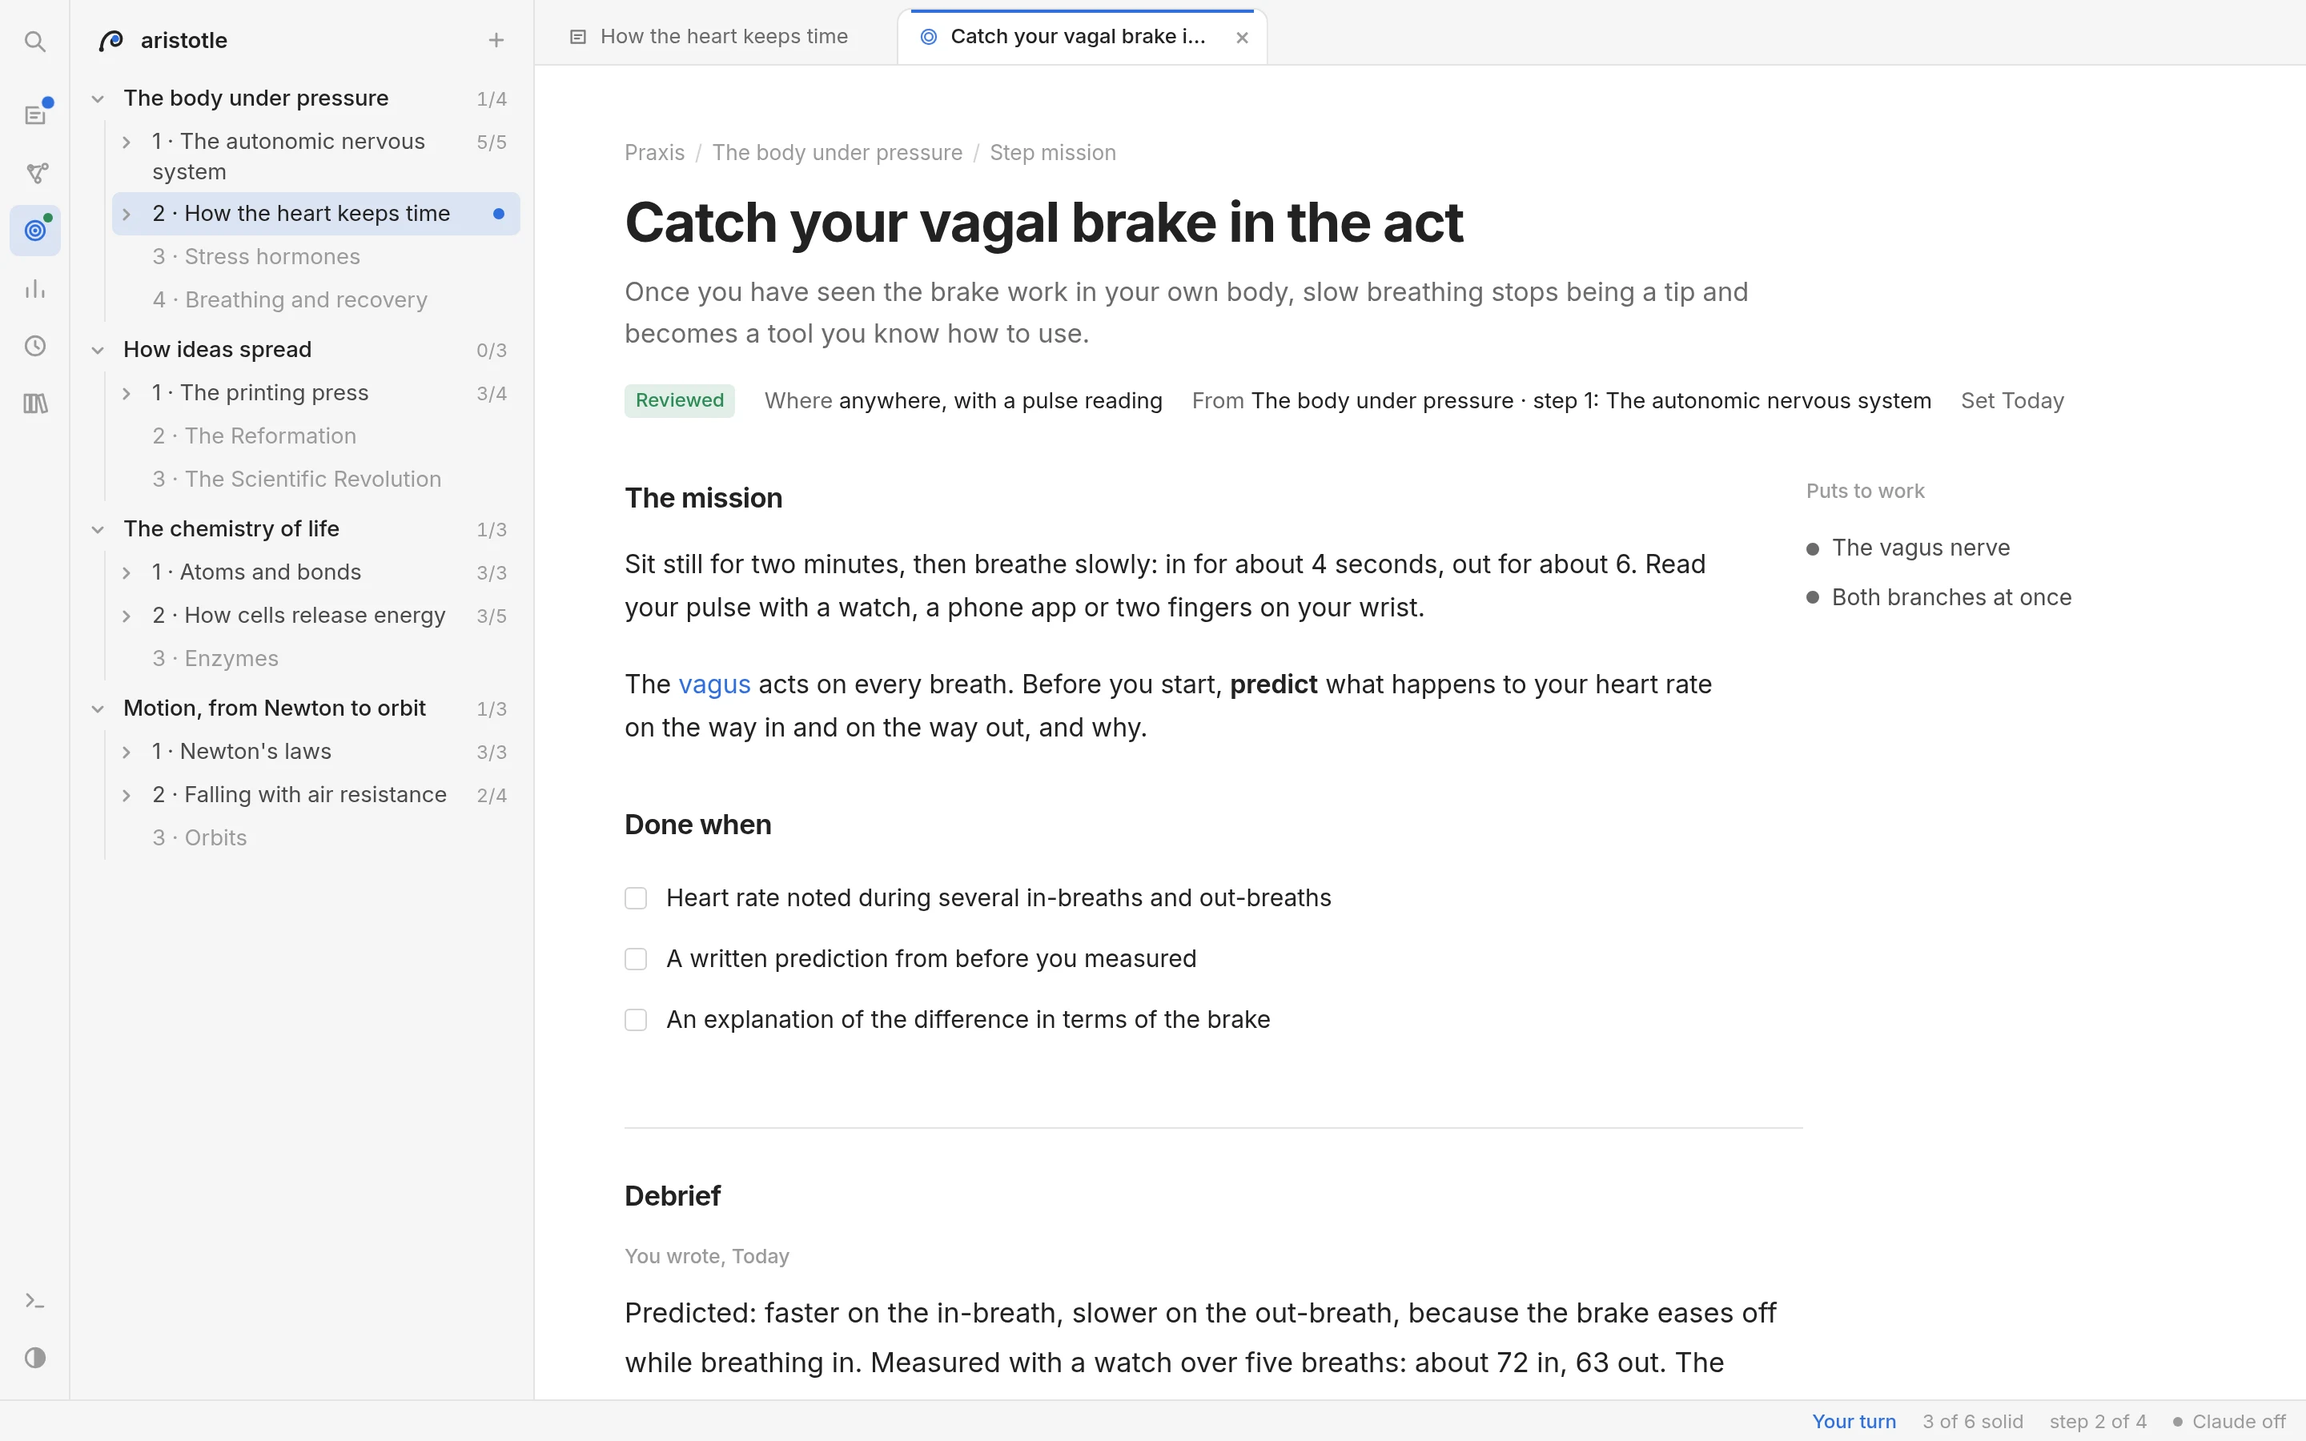
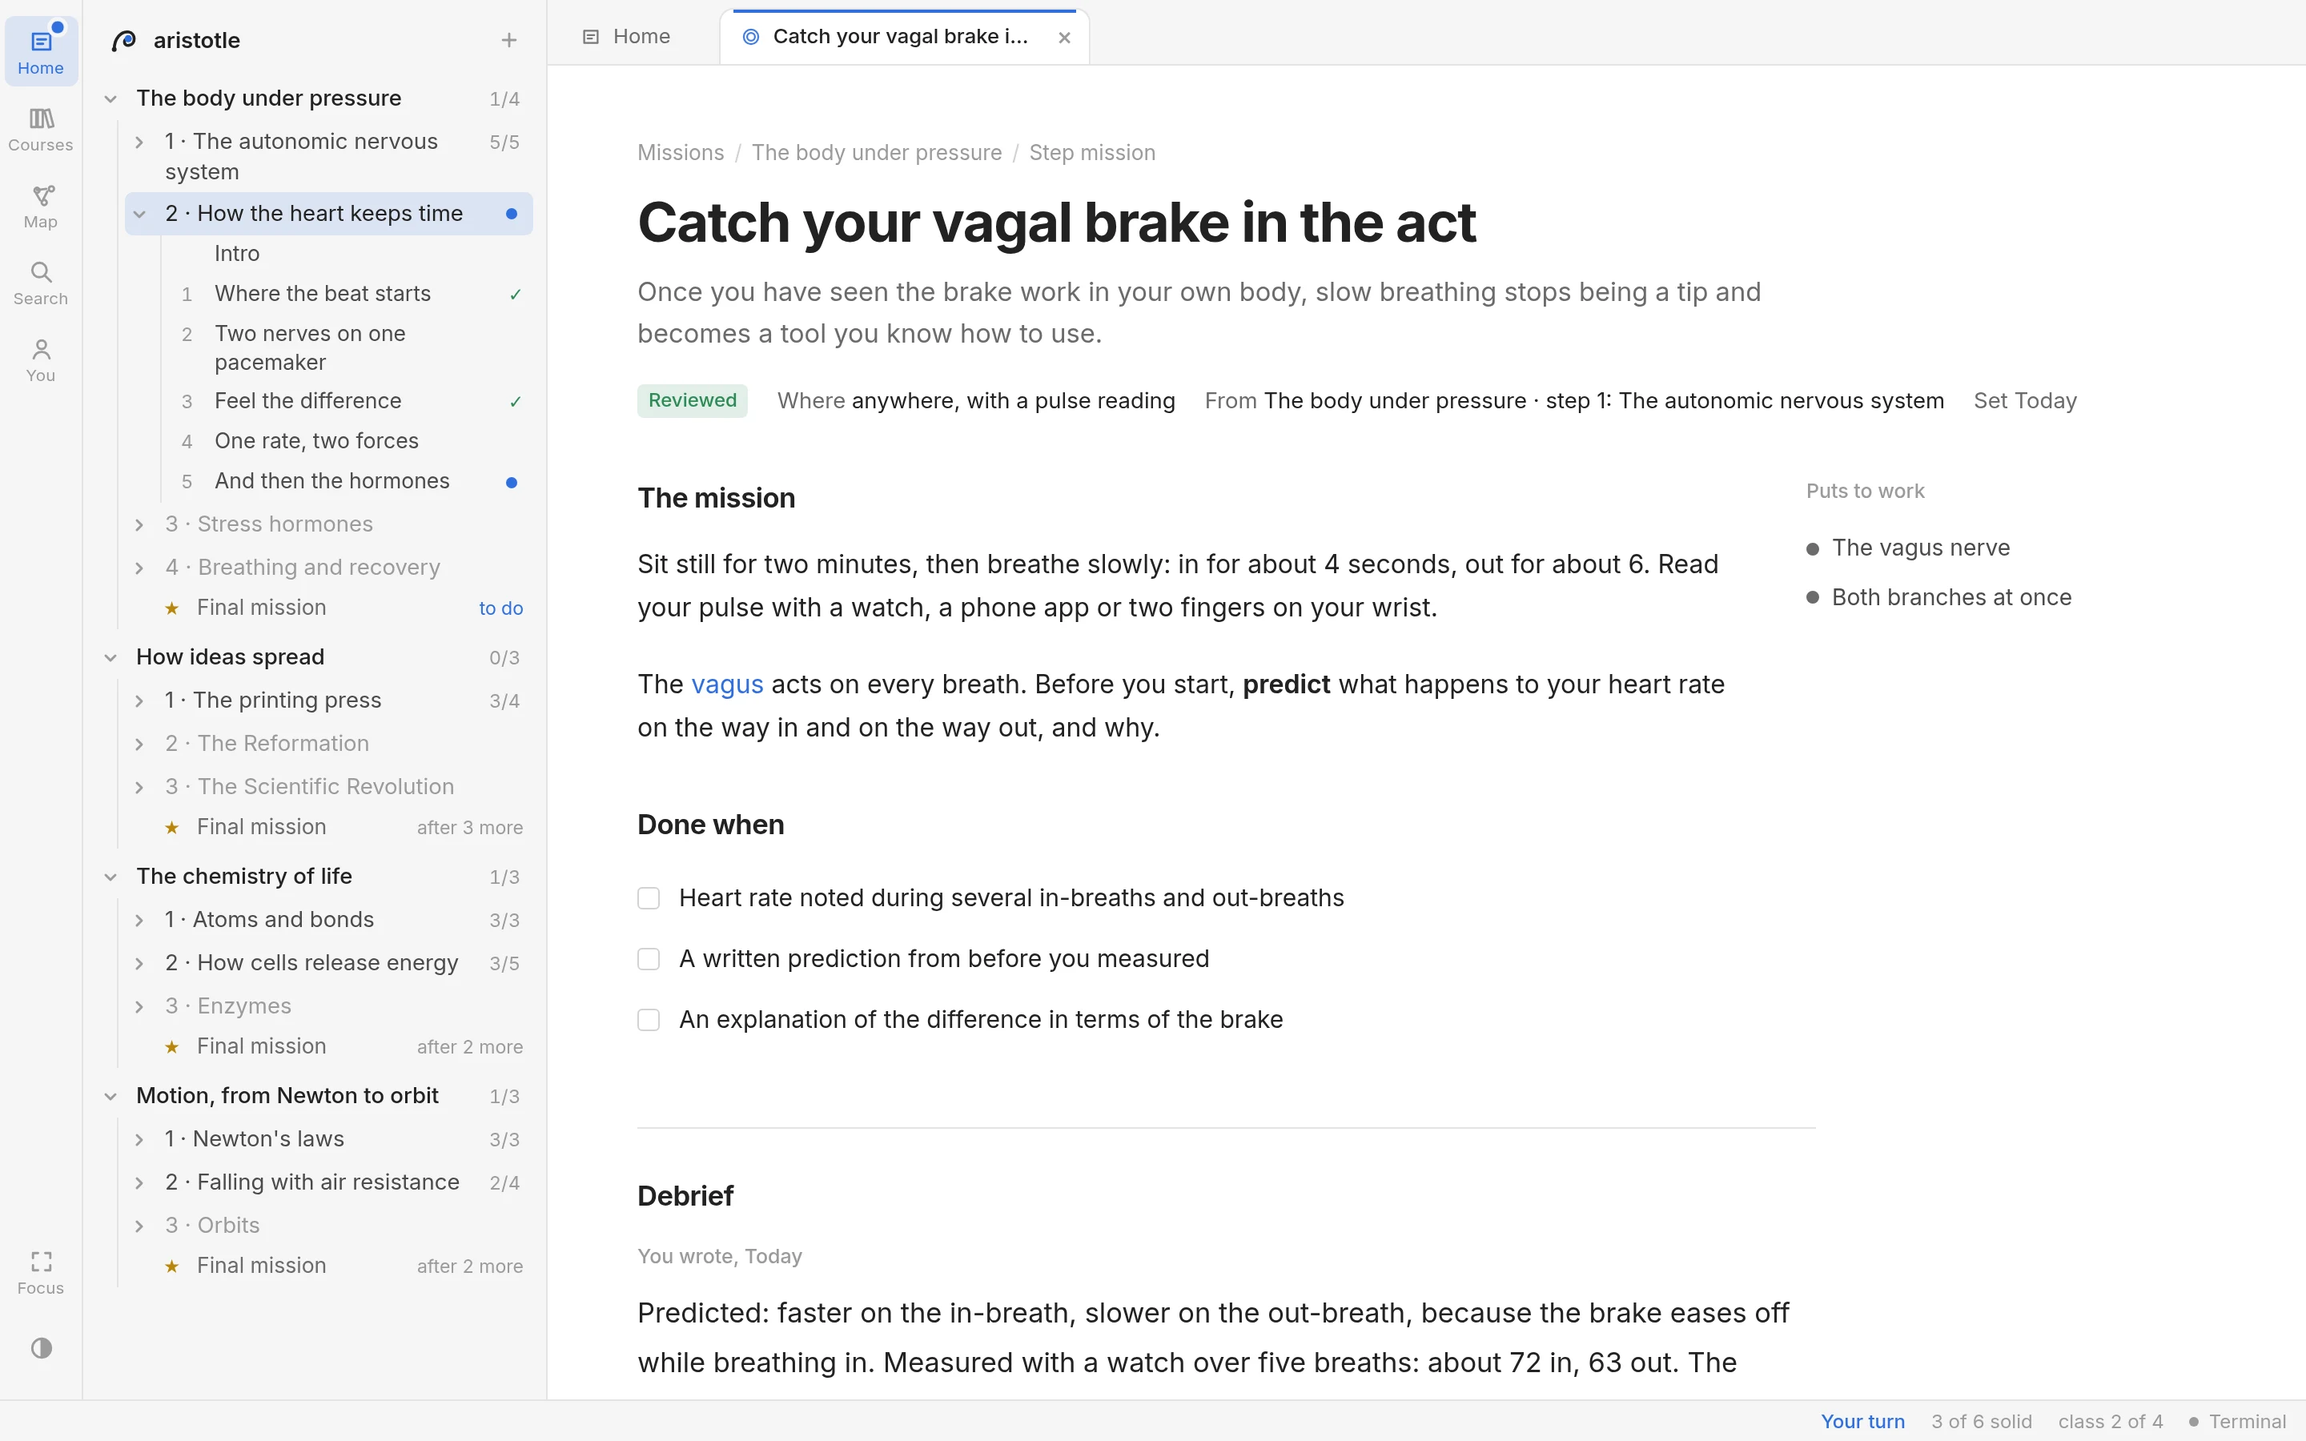
README and screenshots for the Aristotle of today
New screenshots from the four-course demo, in both themes: a hero with a step, its panel
(what it teaches, the learner's notes), the chat beside it and an answered check; Home,
a class, the chat, a course, a mission and search. The text speaks of courses, classes and
steps; adds the chat, glosses, questions on a passage, notes on a step, About you, focus
mode and the final mission of every course; and the data layout gains their files.

Docs: none -- the README and its images are the change.

diff --git a/README.md b/README.md
@@ -28,7 +28,7 @@
 It runs on your Claude subscription. No API keys, no accounts, no cloud: everything you learn is a plain file you own.
 
 <p align="center">
-  <a href="docs/images/hero-dark.webp"><picture><source media="(prefers-color-scheme: dark)" srcset="docs/images/hero-dark.webp"><img src="docs/images/hero-light.webp" alt="A lesson in Aristotle: an engraving of the heart from Gray's Anatomy with numbered markers, inside a lesson on how the heart keeps time, with the library of four subjects beside it, a knowledge map and an answered check laid over it." width="100%"></picture></a>
+  <a href="docs/images/hero-dark.webp"><picture><source media="(prefers-color-scheme: dark)" srcset="docs/images/hero-dark.webp"><img src="docs/images/hero-light.webp" alt="A lesson in Aristotle: an engraving of the heart from Gray's Anatomy with numbered markers, inside a step on how the heart keeps time, with the courses in the library beside it, the panel with what the step teaches and the learner's notes, a chat with Aristotle and an answered check laid over it." width="100%"></picture></a>
 </p>
 
 ## The method
@@ -47,17 +47,17 @@ flowchart LR
 
 | | What happens | Why |
 |---|---|---|
-| **Learn** | The tutor probes what you already know, plans the territory, then teaches **one step at a time**, each followed by a quiz or a question you answer in writing. | Producing an answer is a far stronger test of understanding than recognising one. |
+| **Learn** | The tutor probes what you already know, plans the territory, then teaches **one step at a time**, each followed by a quiz or a question you answer in writing. Beside every step, a chat with Aristotle answers whatever you wonder about, without moving the lesson. | Producing an answer is a far stronger test of understanding than recognising one. |
 | **Map** | Every concept you meet goes on a knowledge map with its prerequisites, marked *not yet*, *shaky* or *solid*, with the evidence behind each mark. | You always see what you actually hold, and the tutor never builds on sand. |
 | **Review** | Each solid concept carries a spaced-repetition card ([FSRS](https://github.com/open-spaced-repetition/ts-fsrs)). When it starts to fade, you recall it from memory. | Retrieval just before forgetting is what makes knowledge last. |
 | **Train** | Problem sets on a topic, pitched just above your level, solved without help and then critiqued. Difficulty rises as you solve them cleanly. | Progressive overload, for thinking. |
-| **Praxis** | When a step of a roadmap is done, you get a **mission**: a real task that puts it to work for your own advantage, in your projects, your sport, your computer, or anywhere. You report back; the tutor checks what it can and reviews it honestly. | Knowledge you have never used is a guess. The mission is where it becomes yours, and where the map learns what really holds up. |
+| **Praxis** | Every course ends with a **mission**: a real task that puts it to work for your own advantage, in your projects, your sport, your computer, or anywhere, designed on its own when the last class is done from where you said you'd use it. You report back; the tutor checks what it can and reviews it honestly. | Knowledge you have never used is a guess. The mission is where it becomes yours, and where the map learns what really holds up. |
 
-Bigger subjects are planned as **roadmaps**: an ordered path of topics, agreed with you before any of it is taught, ending in a capstone mission that uses the whole path at once.
+Bigger subjects are planned as **courses**: an ordered path of classes, agreed with you before any of it is taught, ending in a final mission that uses the whole path at once. A class is its steps, one page each, whichever sitting taught them.
 
 ## Learn anything
 
-Any subject, at any depth. Here is one lesson from each of four roadmaps, in medicine, chemistry, physics and history. Every image is the app itself; click one to see it full size.
+Any subject, at any depth. Here is one lesson from each of four courses, in medicine, chemistry, physics and history. Every image is the app itself; click one to see it full size.
 
 ### Medicine · How the heart keeps time
 <table>
@@ -97,18 +97,24 @@ Also: step-through sequences, Mermaid diagrams, timelines on a log scale, hover 
 
 <table>
   <tr>
-    <td width="50%" valign="top"><a href="docs/images/library-dark.webp"><picture><source media="(prefers-color-scheme: dark)" srcset="docs/images/library-dark.webp"><img src="docs/images/library-light.webp" alt="The library: four roadmaps in medicine, history, chemistry and physics, with their steps and progress."></picture></a><p><b>A library of roadmaps.</b> Each subject is an ordered path of topics, agreed with you before any of it is taught.</p></td>
-    <td width="50%" valign="top"><a href="docs/images/roadmap-dark.webp"><picture><source media="(prefers-color-scheme: dark)" srcset="docs/images/roadmap-dark.webp"><img src="docs/images/roadmap-light.webp" alt="A roadmap, The chemistry of life: steps in order with their goals, progress and concepts."></picture></a><p><b>Roadmaps.</b> Each step has its goal and why it sits where it does. Progress is read off the knowledge maps, so it is always true.</p></td>
+    <td width="50%" valign="top"><a href="docs/images/home-dark.webp"><picture><source media="(prefers-color-scheme: dark)" srcset="docs/images/home-dark.webp"><img src="docs/images/home-light.webp" alt="Home: one card for what to do now, then this week, the courses, what to review, recent answers, words looked up and missions."></picture></a><p><b>Home.</b> One card says what to do now. Around it: your week, your courses, what is coming due for review, your latest answers, the words you looked up and your missions.</p></td>
+    <td width="50%" valign="top"><a href="docs/images/class-dark.webp"><picture><source media="(prefers-color-scheme: dark)" srcset="docs/images/class-dark.webp"><img src="docs/images/class-light.webp" alt="A class: where you are, its steps with how each went, and the concepts it teaches beside them."></picture></a><p><b>A class is its steps.</b> Where you are, with the one thing to do next; every step with how its checks went; and what the class teaches, solid or not yet.</p></td>
   </tr>
 </table>
 <table>
   <tr>
-    <td width="50%" valign="top"><a href="docs/images/mission-dark.webp"><picture><source media="(prefers-color-scheme: dark)" srcset="docs/images/mission-dark.webp"><img src="docs/images/mission-light.webp" alt="A Praxis mission, Catch your vagal brake in the act: why it matters, what to do, the criteria for done, the debrief and the review."></picture></a><p><b>Praxis.</b> A finished step earns a mission in your own life, with a clear “done when”, your debrief and an honest review. A miss in practice sends a concept back to shaky.</p></td>
-    <td width="50%" valign="top"><a href="docs/images/search-dark.webp"><picture><source media="(prefers-color-scheme: dark)" srcset="docs/images/search-dark.webp"><img src="docs/images/search-light.webp" alt="The search palette, matching concepts, steps and sessions for the word print."></picture></a><p><b>Search everything.</b> <kbd>Ctrl</kbd> <kbd>K</kbd> or <kbd>/</kbd> finds roadmaps, concepts, missions, and anything said in any session, your own answers included.</p></td>
+    <td width="50%" valign="top"><a href="docs/images/chat-dark.webp"><picture><source media="(prefers-color-scheme: dark)" srcset="docs/images/chat-dark.webp"><img src="docs/images/chat-light.webp" alt="A step with the chat open beside it: the learner asks which arm makes the heart jump at the start of a climb, and Aristotle answers from the step on screen."></picture></a><p><b>Talk to Aristotle while you read.</b> The chat beside every step sees what you are reading, answers even while a question waits for you, takes <kbd>@</kbd> tags of steps and concepts, and never moves the lesson. Select a word to gloss it, or a passage to ask about it.</p></td>
+    <td width="50%" valign="top"><a href="docs/images/roadmap-dark.webp"><picture><source media="(prefers-color-scheme: dark)" srcset="docs/images/roadmap-dark.webp"><img src="docs/images/roadmap-light.webp" alt="A course, The chemistry of life: its classes in order with their goals, progress and concepts."></picture></a><p><b>Courses.</b> Each class has its goal and why it sits where it does. Progress is read off the knowledge maps, so it is always true, and the course ends with its final mission.</p></td>
+  </tr>
+</table>
+<table>
+  <tr>
+    <td width="50%" valign="top"><a href="docs/images/mission-dark.webp"><picture><source media="(prefers-color-scheme: dark)" srcset="docs/images/mission-dark.webp"><img src="docs/images/mission-light.webp" alt="A mission, Catch your vagal brake in the act: why it matters, what to do, the criteria for done, the debrief and the review."></picture></a><p><b>Missions.</b> A real task in your own life, with a clear “done when”, your debrief and an honest review. A miss in practice sends a concept back to shaky.</p></td>
+    <td width="50%" valign="top"><a href="docs/images/search-dark.webp"><picture><source media="(prefers-color-scheme: dark)" srcset="docs/images/search-dark.webp"><img src="docs/images/search-light.webp" alt="The search palette, matching concepts, classes and missions for the word heart."></picture></a><p><b>Search everything.</b> <kbd>Ctrl</kbd> <kbd>K</kbd> or <kbd>/</kbd> finds courses, classes, concepts, missions, and anything said in any session, your own answers included.</p></td>
   </tr>
 </table>
 
-Plus a Progress page (what is fading, solid concepts over time, training levels), a replayable log of every session, light and dark themes, and Claude Code itself in a drawer at the bottom of every page.
+Plus your own notes on every step, an About you page that missions and courses are built from, a Progress page, a replayable history, focus mode (<kbd>F</kbd>), light and dark themes, and Claude Code's own terminal one keystroke away (<kbd>Ctrl</kbd> <kbd>`</kbd>), opening by itself when it needs you.
 
 ## Quick start
 
@@ -121,7 +127,7 @@ pnpm install
 pnpm start          # builds the interface and starts the server
 ```
 
-Open **http://localhost:4747** and type what you want to learn, or plan a roadmap. Aristotle starts Claude Code inside itself (in the drawer, on your own login) and the lesson begins. The first time, Claude Code asks you to trust the folder and to enable the `aristotle` MCP server: accept both.
+Open **http://localhost:4747** and type what you want to learn, or plan a course. Aristotle starts Claude Code by itself when you open it (in a terminal inside the app, on your own login), and the lesson begins. The first time, Claude Code asks you to trust the folder and to enable the `aristotle` MCP server: accept both.
 
 You can also talk to the tutor from your own terminal: run `claude` in the project folder and say `/teach <anything>`.
 
@@ -156,10 +162,10 @@ Then Aristotle lives at **https://aristotle.test**. The certificate authority is
 | Skill | For |
 |---|---|
 | `/teach <topic>` | A lesson, or `continue` where you left off |
-| `/roadmap <area>` | Plan an ordered path of topics with you |
+| `/roadmap <area>` | Plan a course with you: an ordered path of classes |
 | `/review` | Recall what is fading, across every topic |
 | `/train <topic>` | A training set at the edge of your level |
-| `/praxis` | Design a mission for a finished step or roadmap, or review your debrief |
+| `/praxis` | Design a mission (every course gets its final one on its own), or review your debrief |
 
 ## How it works
 
@@ -174,15 +180,19 @@ flowchart LR
 
 - **Claude Code is the tutor; the server is the classroom.** The server exposes its tools over [MCP](https://modelcontextprotocol.io) (`show`, `quiz`, `ask`, `update_map`, `record_practice`, `save_roadmap`, `save_mission`, `review_mission` and more), and the bridge starts it on demand. A question waits for your answer in the browser and hands it back to Claude, so the tutor reacts to what you actually wrote.
 - **The method lives in skills** (`.claude/skills/`): `teach`, `review`, `train`, `roadmap` and `praxis`. A `researcher` subagent fact-checks claims before they are taught, and an `illustrator` subagent draws diagrams and checks them rendered in both themes.
-- **Claude Code in the page.** The server can run `claude` in a pseudo-terminal and stream it to a drawer in the interface. It is the ordinary interactive Claude Code on your own subscription. Its WebSocket only accepts the app's own pages (Host and Origin checks), and the server only listens on 127.0.0.1.
+- **A second Claude beside the tutor.** The chat, glosses and questions on a passage run `claude -p` on your own login, headless and with no tools, given what you are looking at; the chat continues one session per class. The tutor reads what you asked there.
+- **Claude Code in the page.** The server runs `claude` in a pseudo-terminal and streams it to a terminal in the interface, started when you open the app. It is the ordinary interactive Claude Code on your own subscription. Its WebSocket only accepts the app's own pages (Host and Origin checks), and the server only listens on 127.0.0.1.
 - **Your data is plain files**, written atomically and readable without the app:
 
   ```
   data/
   ├── topics/      one knowledge map per topic (JSON): concepts, prerequisites, evidence, review cards
   ├── sessions/    one append-only log per session (JSON Lines), replayable
-  ├── roadmaps/    one file per roadmap
-  ├── missions/    one file per Praxis mission, with its debrief and review
+  ├── roadmaps/    one file per course
+  ├── missions/    one file per mission, with its debrief and review
+  ├── chats/       the chat beside each class
+  ├── glosses.json, asides.json, notes.json   words you looked up, questions on passages, your notes on steps
+  ├── about.md     About you, in your words
   └── profile.md   what the tutor has learned about how you learn
   ```
 
